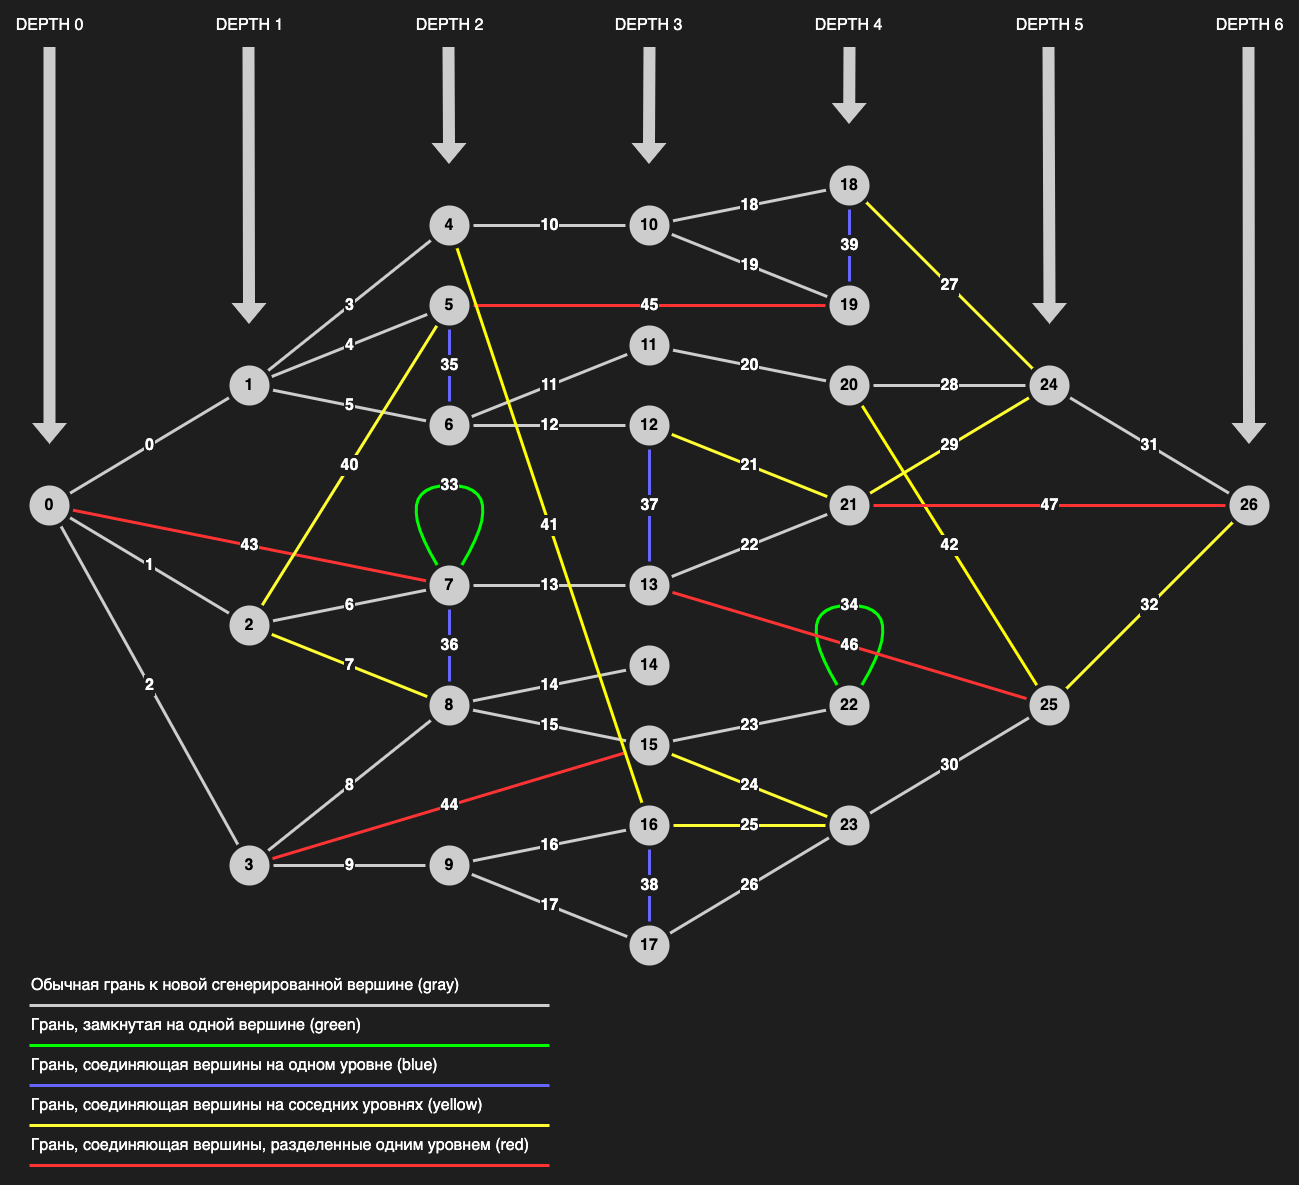
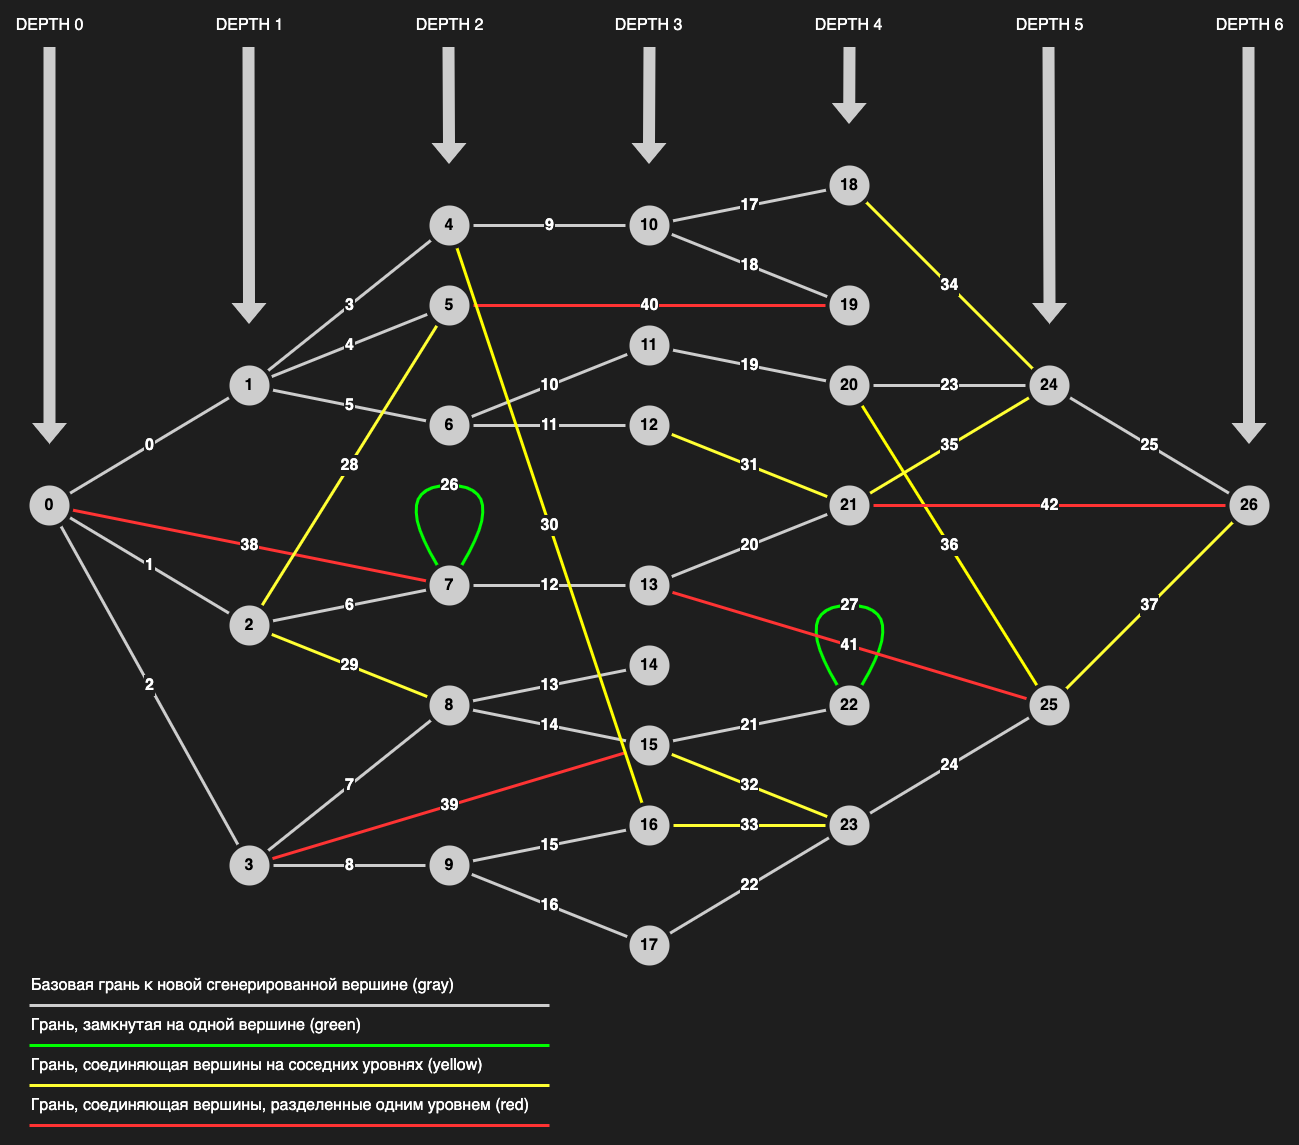
Update task_04 description, remove blue edges

diff --git a/practice/task_04/README.md b/practice/task_04/README.md
@@ -85,7 +85,6 @@ class GraphGenerator {
 ## После того, как вершины сгенерированы, между ними могут быть добавлены дополнительные грани
 
 - **Зеленая**: 10% что у вершины будеть грань сама на себя.
-- **Синяя**: 25% что соседние вершины, находящиеся на одной глубине, будут соединены.
 - **Желтая**: Вершина будет соединена с рандомной вершиной, находящейся на 1 уровень глубже, исключая её собственных потомков.
   - Вероятность обратная к обычным (серым) граням:
     - Глубина графа 0: 0%
@@ -95,13 +94,13 @@ class GraphGenerator {
 
 ## Дополнительная информация
 
-1) Для реализации логики разных цветов граней - существует специальный инструмент - "перечисление" (по-английски " enumeration").
-Соответственно у нас есть тип данных `Color`, в котором мы перечисляем набор опций: `Grey`, `Green`, `Blue`, `Yellow`, `Red`.
+1) Для реализации логики разных цветов граней - существует специальный инструмент - "перечисление" (по-английски "enumeration").
+Соответственно у нас есть тип данных `Color`, в котором мы перечисляем набор опций: `Grey`, `Green`, `Yellow`, `Red`.
 Делается это при помощи `enum class`:
 
 ```cpp
 struct Edge {
-  enum class Color { Grey, Green, Blue, Yellow, Red };
+  enum class Color { Grey, Green, Yellow, Red };
 }
 ```
 
@@ -123,7 +122,7 @@ Edge& add_edge(const VertexId& from_vertex_id, const VertexId& to_vertex_id);
 Вычислять глубину вершины и цвет граней нужно динамически, внутри графа, без перекладывания этой ответственности на внешнего пользователя.
 
 Для упрощения, примем то, что глубина графа изменяется только серыми гранями. Думайте о них, как о базовых грянях.
-Все остальные грани (зеленая, синяя, желтая и красная) никак не влияют на глубину графа, и являются дополнительными гранями.
+Все остальные грани (зеленая, желтая и красная) никак не влияют на глубину графа, и являются дополнительными гранями.
 
 Соответственно логика должна быть следующая (псевдокод):
 - Глубина:
@@ -141,8 +140,6 @@ Edge& add_edge(const VertexId& from_vertex_id, const VertexId& to_vertex_id);
       return Edge::Color::Grey;
     if (from_vertex_id == to_vertex_id)
       return Edge::Color::Green;
-    if (to_vertex_depth - from_vertex_depth == 0)
-      return Edge::Color::Blue;
     if (to_vertex_depth - from_vertex_depth == 1)
       return Edge::Color::Yellow;
     if (to_vertex_depth - from_vertex_depth == 2)
@@ -189,7 +186,7 @@ add_edge(1, 0);
 }
 ```
 
-- Возможные цвета граней: `grey`, `green`, `blue`, `yellow`, `red`.
+- Возможные цвета граней: `grey`, `green`, `yellow`, `red`.
 
 ## Функция `main` вашей программы
 
